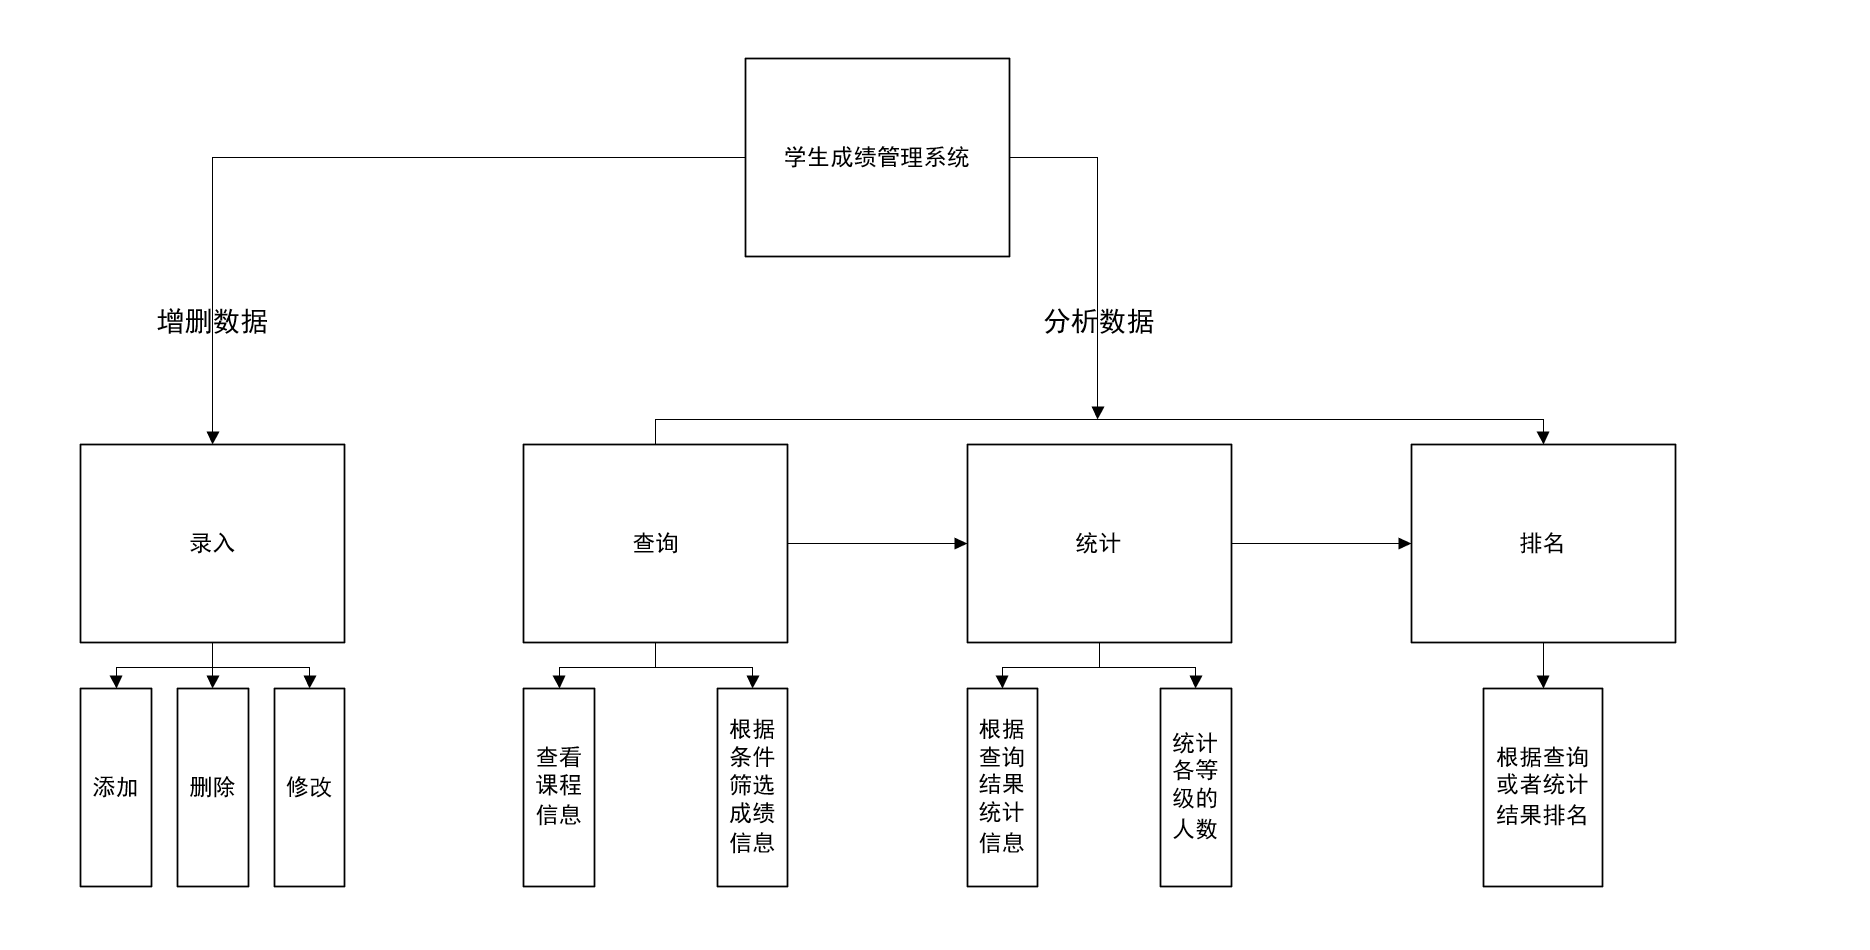
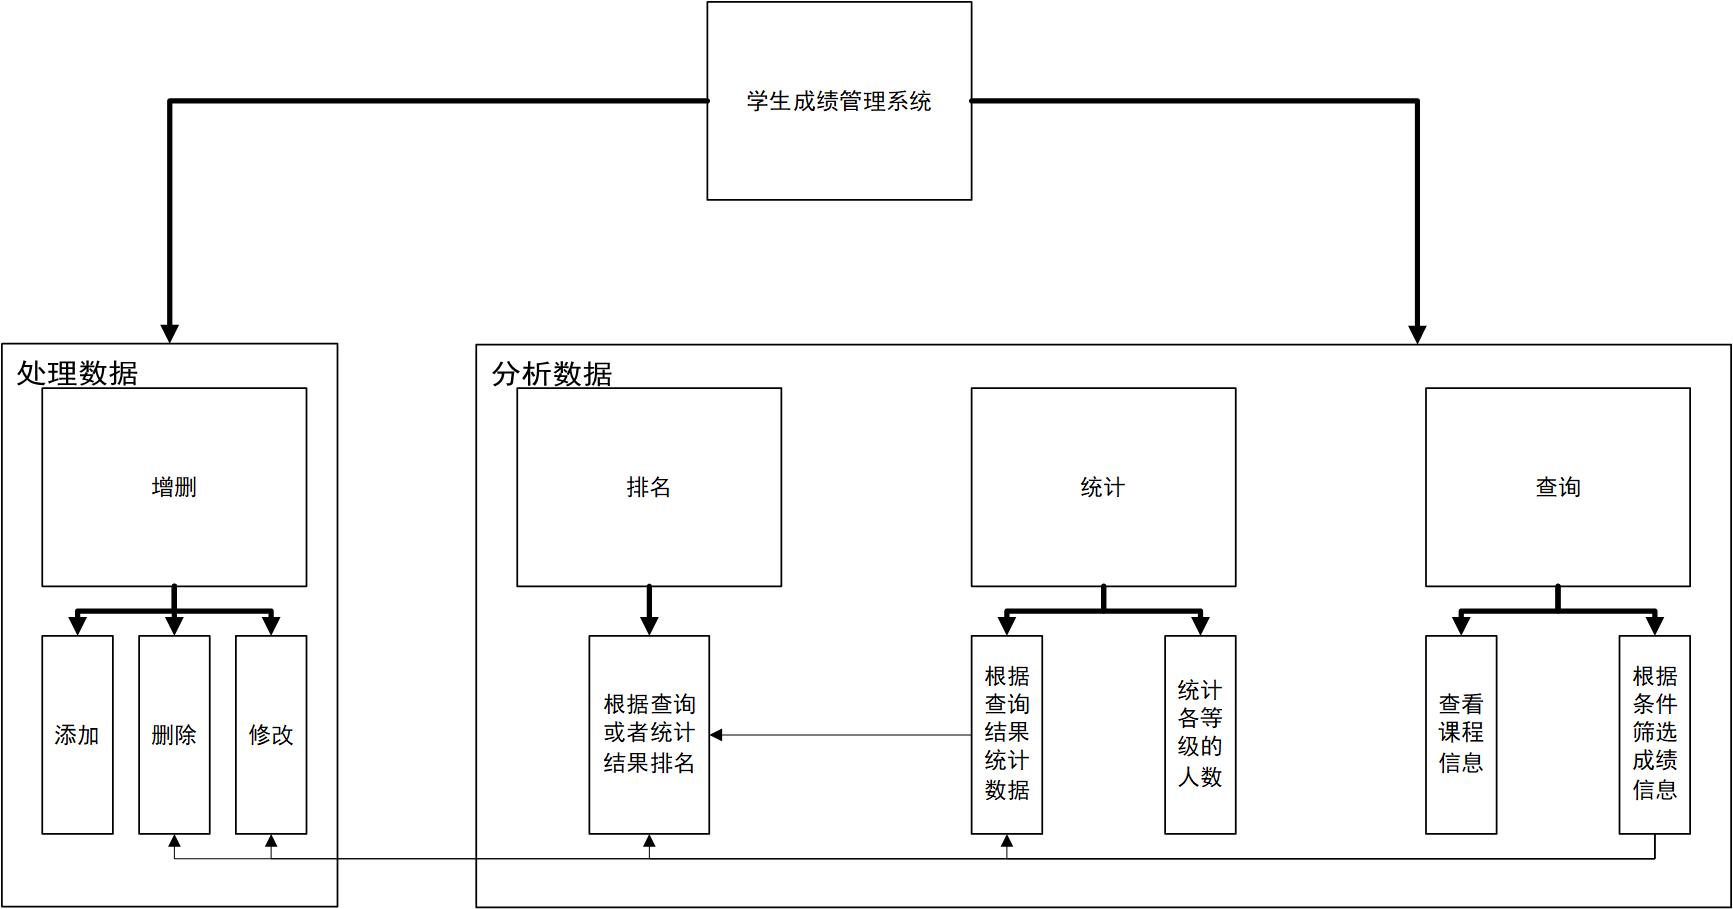
完成总体设计

diff --git a/README.md b/README.md
@@ -10,13 +10,13 @@ author: Guoyun Tian	2022.7
 
 *提出系统的功能*
 
-学生成绩管理系统旨在为授课教师、院系或班级的管理者便捷地提供成绩录入、查询、统计和排名功能，以便分析学生的学习状况和课程的整体情况，有助于将来对课程进行进一步的调整和优化。
+学生成绩管理系统旨在为授课教师、院系或班级的管理者便捷地提供成绩增删、查询、统计和排名功能，以便分析学生的学习状况和课程的整体情况，有助于将来对课程进行进一步的调整和优化。
 
 一条学生成绩信息应该包括学生信息，课程信息和成绩信息。学生信息包括学生姓名，班级，学号。课程信息包括课程名，授课学期，学分，类型（必修，限选，任选），评分制（等级制，PF制）。成绩信息包括等级，绩点，可能还包括百分制成绩。
 
-录入功能：可以在终端录入，也可以通过文本文件导入。格式：姓名	班级	学号	课程名	授课学期	类型	评分制	学分	百分制成绩	等级	绩点。拥有添加、删除、修改三种模式。其中，删除模式可以批量删除。
+增删功能：可以在终端录入，也可以通过文本文件导入。格式：姓名	班级	学号	课程名	授课学期	类型	评分制	学分	百分制成绩	等级	绩点。拥有添加、删除、修改三种模式。其中，删除模式可以批量删除。
 
-查询功能：可以查看当前所有课程，根据学期筛选课程；可以根据学生姓名，学号，班级，年级，课程名，授课学期筛选符合条件的成绩信息，输出查询表格。按照学号顺序排列。
+查询功能：可以查看当前所有课程，根据学期筛选课程；可以根据学生姓名，学号，班级，年级，课程名，授课学期，课程类型，评分制筛选符合条件的成绩信息，输出查询表格。按照学号顺序排列。
 
 统计功能：根据查询结果，按照某一指标（学生，班级，年级，课程，全部，自定义）统计符合条件的成绩信息的平均绩点、百分制成绩，输出统计表格。对于课程，还可以统计各个等级的人数。
 
@@ -24,17 +24,27 @@ author: Guoyun Tian	2022.7
 
 快捷操作功能（待定）：一键进行操作，简化查询流程。
 
-系统需求图如下：
 
-![](.\系统需求.png)
 
 ### 总体设计
 
 *绘制功能模块图，介绍功能的实现流程*
 
+用户可以进行两类操作：处理数据和分析数据。其中处理数据包含增删功能。分析数据包含查询、统计和排名功能。
+
+处理数据分为添加，删除和修改三种类型。添加数据只需将数据通过终端或者文本导入即可。删除和修改需要首先进行查询，查找到特定数据后再进行操作。
+
+分析数据操作的流程如下：首先查询成绩，然后可以选择是否对所得成绩进行统计，最后执行排名功能。
+
+功能模块图如下：
+
+![](.\系统需求.png)
+
 ### 详细设计
 
 *设计类的UML图，各类功能的具体模块图*
+
+
 
 ### 系统调试
 
